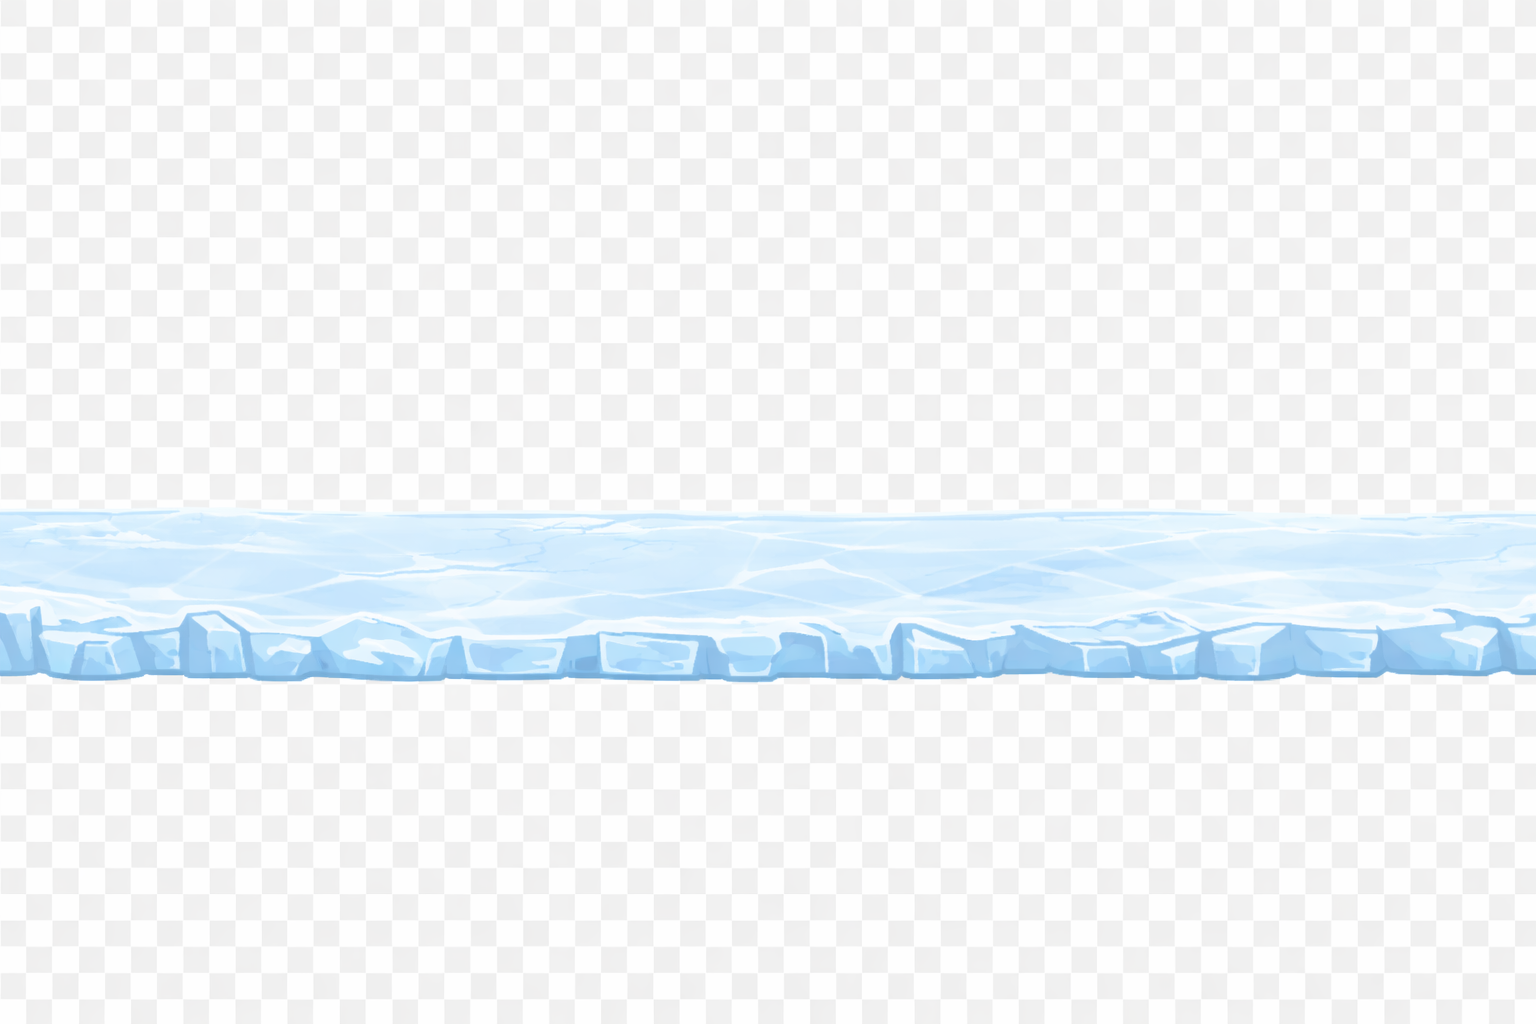
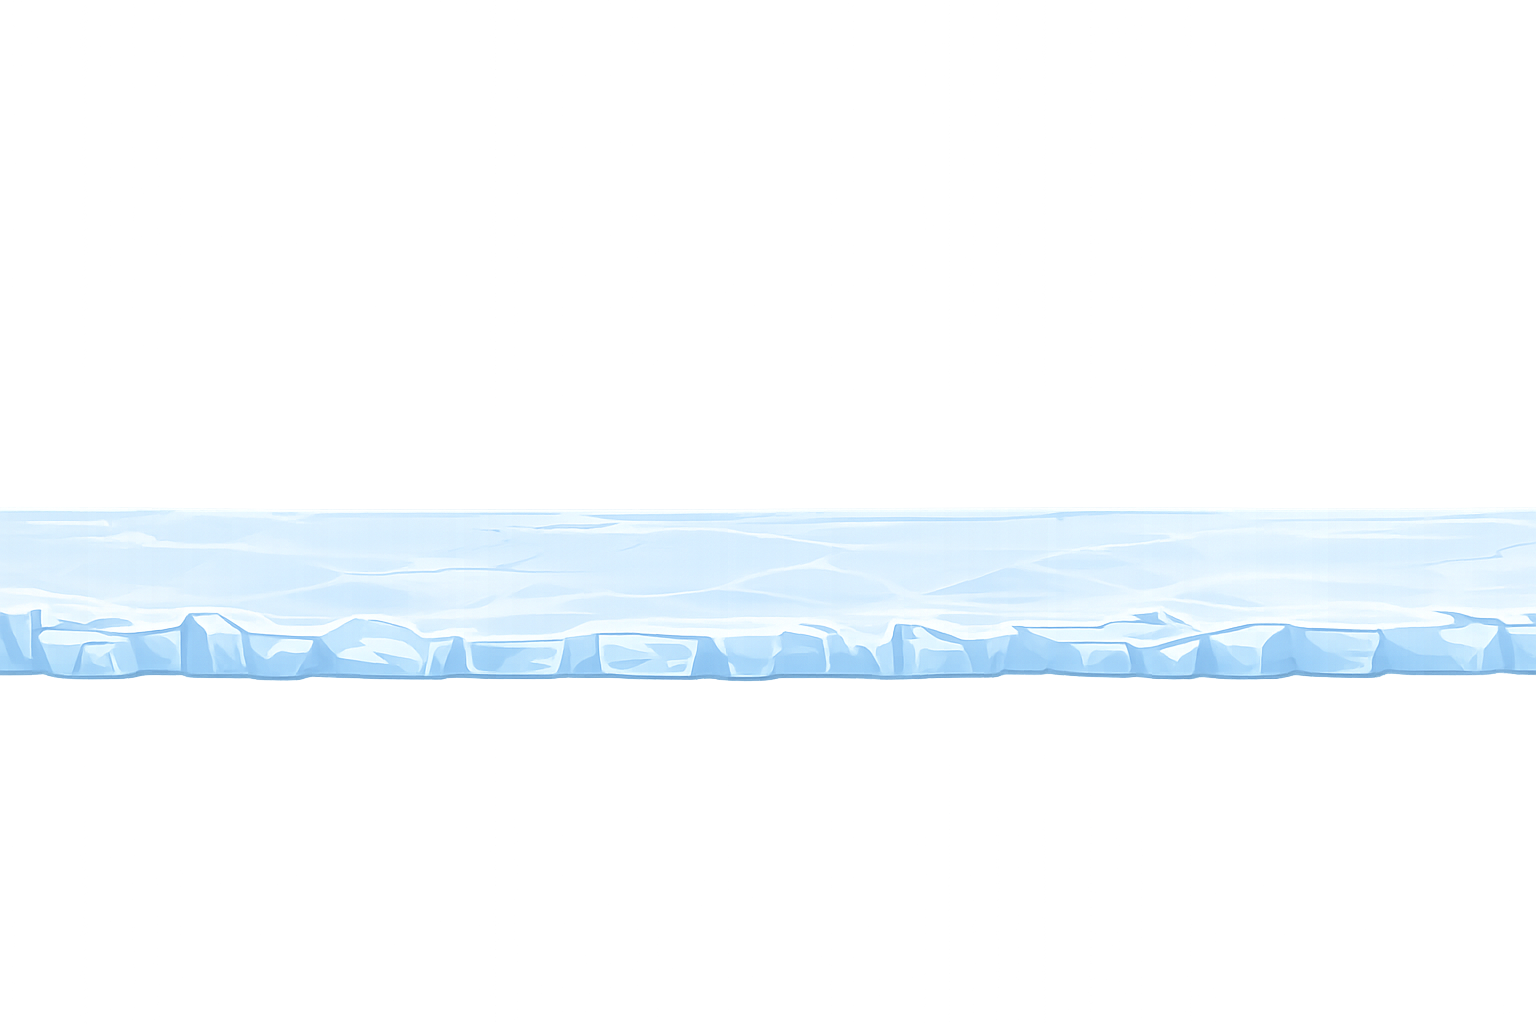
Add new background images for divide modes and document asset plan

diff --git a/spec/plan/plan-asset.md b/spec/plan/plan-asset.md
@@ -1,0 +1,83 @@
+A) 現状コードで背景参照箇所を特定する調査手順
+調査結果サマリ（先に結論）
+背景レイヤー DOM は共通の .run-layer > .run-world > .run-bg > .run-sky/.run-clouds/.run-ground 構造（index.html）。
+
+実際の sky/ground は CSS変数経由で描画されている。
+
+.run-sky → --run-sky-image（fallback: assets/bg-sky.png）
+
+.run-ground__tile → --run-ground-image（fallback: assets/bg-ground.png）
+
+定義箇所: styles/style.scoped.css の run-world[data-bg-theme=...] ブロック
+
+通常ゲーム (gameScreen.js) は data-bg-theme を設定しているが、現状は各 theme の --run-sky-image / --run-ground-image が共通画像のまま。
+
+Dash Run (dashGameScreen.js) は run-layer を DOM 移動して再利用しているが、ステージ種別→背景切替の明示適用がない。
+
+さらに Dash には .screen-dash::before で固定 assets/bg-sky.png を敷く CSS があり、ここがステージ別化のボトルネックになりうる。
+
+調査で見るべき分岐（CSS/JS/canvas）
+CSS url(...) 参照: styles/style.scoped.css の --run-*-image と background-image
+
+JS 直差し <img>: 背景は未使用（cloud のみ JS生成 img）
+
+canvas 描画: 背景用 canvas は見当たらず（DOM/CSS方式）
+
+お勧めのタスク
+背景参照のSSoTを確定するため、sky/ground参照経路を文書化する
+
+タスクを開始
+B) 背景差し替え設計案（2案）と推奨
+案1: JSでステージ種別から URL を組み立て、.run-world に直接反映
+例: runWorld.style.setProperty('--run-sky-image', 'url(...)')
+
+Pros: 実行時に完全制御しやすい。fallbackロジックをJSで一元化しやすい。
+
+Cons: CSS責務をJSへ寄せるため、既存の data-bg-theme 体系と二重管理になりやすい。Dash向け疑似要素との整合確認が必要。
+
+お勧めのタスク
+案1（JS直指定）の実現可能性を評価し、運用時の二重管理リスクを明確化する
+
+タスクを開始
+案2: CSS変数をSSoTにし、ステージ開始時に「テーマID/変数」だけ切替
+例: data-bg-theme="bg_add" などをDashにも適用し、CSS側で
+--run-sky-image: url("../assets/plus/bg-sky.png")
+--run-ground-image: url("../assets/plus/bg-ground.png")
+
+Pros: 既存構造（DOM・z-index・run-layer再利用）をほぼ維持。差分が小さく低リスク。通常ゲームとDashを同じ仕組みに寄せられる。
+
+Cons: CSSマッピング更新が中心。fallbackを「CSSの多段 fallback」か「JSの存在確認＋代替設定」どちらで担うかを決める必要あり。
+
+お勧めのタスク
+案2（CSS変数SSoT）の採用設計を固める
+
+タスクを開始
+推奨案
+案2（CSS変数SSoT）推奨。
+理由: 既存DOM/配置ロジック不変更、Dash共存しやすい、差分小、見た目破壊リスクが最小。
+
+C) 推奨案の具体的実装タスク分解（チェックリスト）
+お勧めのタスク
+ステージ種別背景切替（推奨: CSS変数SSoT）を最小差分で実装する
+
+タスクを開始
+D) Acceptance Criteria と手動テスト手順
+お勧めのタスク
+ステージ別背景切替の受け入れ条件と手動テストを定義する
+
+タスクを開始
+チェック実行ログ（静的確認のみ）
+✅ pwd; rg --files -g 'AGENTS.md'
+✅ rg --files | head -n 200
+✅ rg -n "bg-sky|bg-ground|run-world|run-ground|runner-wrap|background|assetDiagnostics|404|missing|asset" src styles index.html
+✅ sed -n '180,420p' src/screens/gameScreen.js; sed -n '1000,1120p' src/screens/gameScreen.js; sed -n '120,360p' src/screens/dashGameScreen.js; sed -n '2860,3065p' styles/style.scoped.css
+✅ rg -n "run-sky|run-cloud|run-ground__tile|--run-ground-image|--run-sky|data-bg-theme|bg_add|bg_sub|bg_mul|bg_div|bg_mix" styles/style.scoped.css src/screens src/features src/core
+✅ sed -n '2288,2498p' styles/style.scoped.css; sed -n '160,230p' styles/style.scoped.css; sed -n '1,180p' src/features/stages.js; sed -n '1,220p' src/screens/dashStageSelectScreen.js; sed -n '1,220p' src/features/dashStages.js
+✅ rg -n "dash.stageId|data-bg-theme|runWorld|stageId|toDashStageId|getDashStage" src/screens/dashGameScreen.js src/core/gameState.js src/ui/domRefs.js src/screens/gameScreen.js
+✅ sed -n '920,1055p' src/screens/dashGameScreen.js; sed -n '1,120p' src/screens/dashGameScreen.js; sed -n '1,120p' src/core/gameState.js
+✅ sed -n '390,520p' index.html
+✅ rg -n "dash-game-screen|screen-dash|run-layer" index.html
+✅ sed -n '180,320p' index.html
+✅ rg -n "ensureRunLayerMounted|runLayerOriginalParent|run-host|appendChild|insertBefore" src/screens/dashGameScreen.js src/screens/gameScreen.js
+✅ sed -n '132,210p' src/screens/dashGameScreen.js
+✅ sed -n '1,60p' styles/style.scoped.css
